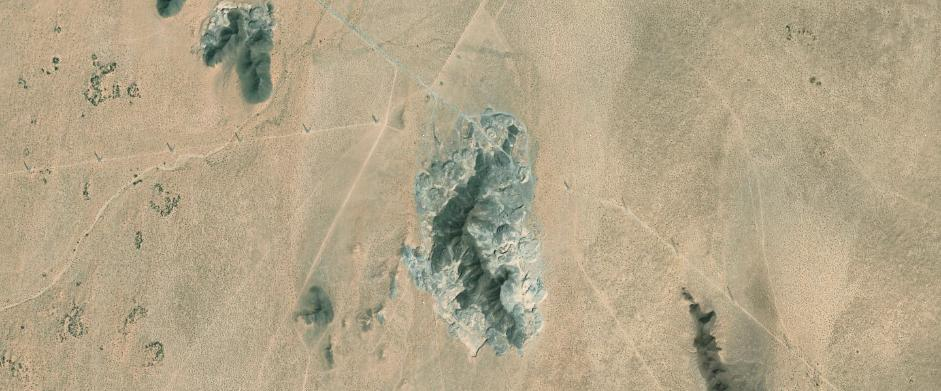
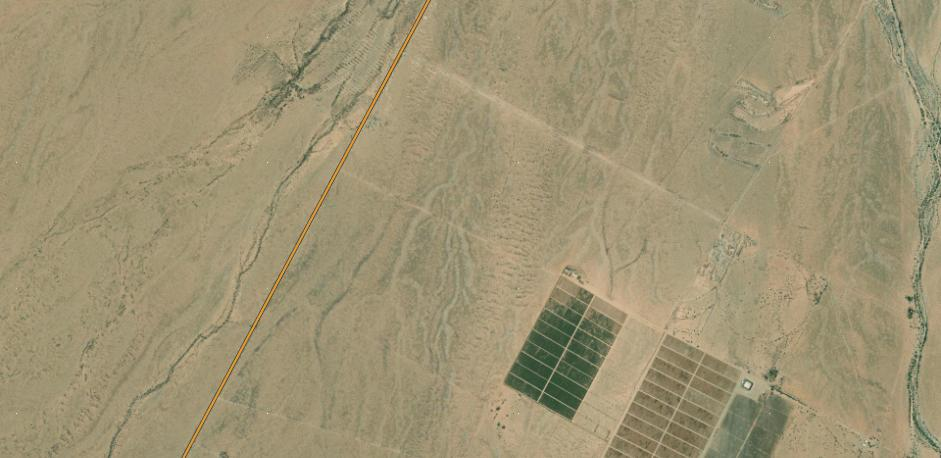
Punto 14 reubicado; 11 y 15 como bancos con acceso limitado (negro)

diff --git a/index.html b/index.html
@@ -30,11 +30,11 @@
   {"id": 8, "nombre": "Pozo Ejido Huivérachi", "tipo": "pozo", "lat": 31.700832, "lng": -113.13792, "enlace": "https://maps.app.goo.gl/V3wAgFmqL5dX7YGcA", "km": "Km 34+000 (1 km al norte)", "dist_eje": "1 km", "referencia": "Ejido Huivérachi", "uso": "Fuente ordinaria", "calidad": "", "notas": "A 1 km al norte del banco km 34. No incluido en el planteamiento.", "en_plan": false, "foto": "", "descripcion": ""},
   {"id": 9, "nombre": "Pozo El Chamizal", "tipo": "pozo", "lat": 31.697467, "lng": -113.075111, "enlace": "https://maps.app.goo.gl/WbbaDxpzR9PuZXJo6", "km": "Km 23 a 34", "dist_eje": "3.5 km / 1,500 m", "referencia": "Ejido Huivérachi", "uso": "Fuente ordinaria", "calidad": "", "notas": "", "en_plan": true, "foto": "", "descripcion": ""},
   {"id": 10, "nombre": "Pozo km 29+000", "tipo": "pozo", "lat": 31.734474, "lng": -113.061395, "enlace": "https://maps.app.goo.gl/BPL1TJZMcrK4nscG9", "km": "Km 29+000", "dist_eje": "500 m", "referencia": "—", "uso": "Sin asignar", "calidad": "", "notas": "No incluido en el planteamiento.", "en_plan": false, "foto": "", "descripcion": ""},
-  {"id": 11, "nombre": "Pozo km 4+000", "tipo": "pozo", "lat": 31.832236, "lng": -112.849263, "enlace": "https://maps.app.goo.gl/dG3jifU2ivjeodnj7", "km": "Km 4+000", "dist_eje": "—", "referencia": "Entrada sur de Sonoyta", "uso": "Sin asignar", "calidad": "", "notas": "No incluido en el planteamiento.", "en_plan": false, "foto": "", "descripcion": ""},
+  {"id": 11, "nombre": "Banco 11 (acceso limitado)", "tipo": "banco", "lat": 31.832236, "lng": -112.849263, "enlace": "https://maps.app.goo.gl/dG3jifU2ivjeodnj7", "km": "Km 4+000", "dist_eje": "—", "referencia": "Entrada sur de Sonoyta", "uso": "Acceso limitado", "calidad": "", "notas": "Banco de materiales con acceso limitado. Actualmente tritura VIRGO.", "en_plan": true, "foto": "", "descripcion": "", "acceso": "limitado"},
   {"id": 12, "nombre": "Pozo Ejido Los Pápagos (2.6 km NO de Sonoyta)", "tipo": "pozo", "lat": 31.885744, "lng": -112.889507, "enlace": "https://maps.app.goo.gl/hwHk3wshHEPUjNpz7", "km": "Fuera del corredor", "dist_eje": "—", "referencia": "Ejido Los Pápagos", "uso": "Sin asignar", "calidad": "", "notas": "No incluido en el planteamiento.", "en_plan": false, "foto": "", "descripcion": ""},
   {"id": 13, "nombre": "Pozo Ejido Los Pápagos (7 km NO de Sonoyta)", "tipo": "pozo", "lat": 31.904188, "lng": -112.912583, "enlace": "https://maps.app.goo.gl/dgopFYDA43zp3ykD7", "km": "Fuera del corredor", "dist_eje": "—", "referencia": "Ejido Los Pápagos", "uso": "Sin asignar", "calidad": "", "notas": "No incluido en el planteamiento.", "en_plan": false, "foto": "", "descripcion": ""},
-  {"id": 14, "nombre": "Pozo 14 (Arenitas – Agua Zarca)", "tipo": "pozo", "lat": 31.444017, "lng": -113.27695, "enlace": "https://www.google.com/maps?q=31.444017,-113.276950", "km": "Km 76+500 (acceso ≈17 km)", "dist_eje": "≈17 km por el acceso desde el km 76+500", "referencia": "Junto al banco Arenitas – Agua Zarca", "uso": "Por definir", "calidad": "", "notas": "Coordenadas 31°26'38.46\"N 113°16'37.02\"W. Nombre por confirmar.", "en_plan": true, "foto": "", "descripcion": ""},
-  {"id": 15, "nombre": "Banco de materiales Arenitas – Agua Zarca", "tipo": "banco", "lat": 31.4417911, "lng": -113.274919, "enlace": "https://www.google.com/maps?q=31.4417911,-113.2749190", "km": "Km 76+500", "dist_eje": "Acceso de 17.3 km desde el km 76+500", "referencia": "Arenitas – Agua Zarca", "uso": "Por definir (cobertura de tramo por confirmar)", "calidad": "", "notas": "Ubicación y datos proporcionados por Herme Damián. Cerro rocoso visible en imagen satelital.", "en_plan": true, "foto": "", "descripcion": ""}
+  {"id": 14, "nombre": "Pozo 14", "tipo": "pozo", "lat": 31.611028, "lng": -113.339167, "enlace": "https://www.google.com/maps?q=31.611028,-113.339167", "km": "Por confirmar", "dist_eje": "≈2 km al este del eje (línea recta)", "referencia": "Entre Agua Zarca y Los Norteños", "uso": "Por definir", "calidad": "", "notas": "Coordenadas 31°36'39.7\"N 113°20'21.0\"W. Nombre y cadenamiento por confirmar.", "en_plan": true, "foto": "", "descripcion": ""},
+  {"id": 15, "nombre": "Banco Arenitas – Agua Zarca (acceso limitado)", "tipo": "banco", "lat": 31.4417911, "lng": -113.274919, "enlace": "https://www.google.com/maps?q=31.4417911,-113.2749190", "km": "Km 76+500", "dist_eje": "Acceso de 17.3 km desde el km 76+500", "referencia": "Arenitas – Agua Zarca", "uso": "Acceso limitado (17.3 km desde el km 76+500)", "calidad": "", "notas": "Ubicación y datos proporcionados por Herme Damián. Acceso limitado.", "en_plan": true, "foto": "", "descripcion": "", "acceso": "limitado"}
 ]
 </script>
 
@@ -66,13 +66,13 @@
   .fichas{position:fixed;left:0;right:0;bottom:calc(12px + env(safe-area-inset-bottom));z-index:1000;display:flex;gap:6px;overflow-x:auto;padding:4px 12px;scrollbar-width:none}
   .fichas::-webkit-scrollbar{display:none}
   .ficha{flex-shrink:0;width:38px;height:38px;border-radius:50%;border:2px solid #fff;background:var(--pizarra);color:#fff;font-weight:600;font-size:13px;display:grid;place-items:center;box-shadow:0 2px 8px rgba(0,0,0,.25);cursor:pointer}
-  .ficha.pozo{background:var(--agua)} .ficha.banco{background:var(--piedra)}
+  .ficha.pozo{background:var(--agua)} .ficha.banco{background:var(--piedra)} .ficha.limitado{background:#111}
   .ficha.confoto{box-shadow:0 0 0 3px var(--salvia)}
   .ficha.activa{transform:scale(1.15);outline:2px solid var(--pizarra)}
 
   /* marcador */
   .marcador{width:32px;height:32px;border-radius:50% 50% 50% 0;transform:rotate(-45deg);background:var(--pizarra);border:2px solid #fff;box-shadow:0 2px 6px rgba(0,0,0,.35);display:grid;place-items:center;transition:transform .15s}
-  .marcador.pozo{background:var(--agua)} .marcador.banco{background:var(--piedra)}
+  .marcador.pozo{background:var(--agua)} .marcador.banco{background:var(--piedra)} .marcador.limitado{background:#111}
   .marcador.confoto{box-shadow:0 0 0 3px var(--salvia),0 2px 6px rgba(0,0,0,.35)}
   .marcador span{transform:rotate(45deg);color:#fff;font-size:12px;font-weight:700}
   .leaflet-marker-icon:hover .marcador{transform:rotate(-45deg) scale(1.12)}
@@ -93,7 +93,7 @@
   .tarjeta p.vacia{color:var(--gris);font-style:italic}
   .tarjeta .pie{display:flex;gap:6px;margin-top:12px;flex-wrap:wrap}
   .chip{display:inline-block;font-size:11px;padding:2px 8px;border-radius:10px;color:#fff;margin:2px 4px 2px 0}
-  .chip.pozo{background:var(--agua)} .chip.banco{background:var(--piedra)} .chip.fuera{background:var(--gris)}
+  .chip.pozo{background:var(--agua)} .chip.banco{background:var(--piedra)} .chip.fuera{background:var(--gris)} .chip.limitado{background:#111}
   .datos{display:grid;grid-template-columns:auto 1fr;gap:3px 10px;margin:6px 0 8px;font-size:12.5px}
   .datos dt{color:var(--gris)} .datos dd{margin:0;color:var(--tinta)} .datos a{color:var(--salvia)}
   .tarjeta label{display:block;font-size:12px;color:var(--gris);margin:8px 0 3px}
@@ -103,7 +103,7 @@
   .leyenda{position:fixed;right:12px;bottom:calc(64px + env(safe-area-inset-bottom));z-index:1000;background:var(--papel);border:1px solid var(--linea);border-radius:8px;padding:6px 10px;font-size:12px;color:var(--gris);display:flex;align-items:center;gap:6px;box-shadow:0 2px 8px rgba(0,0,0,.12)}
   .leyenda i{display:inline-block;width:22px;height:4px;border-radius:2px;background:#e0912f}
   .leyenda b{display:inline-block;width:10px;height:10px;border-radius:50%;margin-left:8px}
-  .leyenda b.agua{background:var(--agua)} .leyenda b.piedra{background:var(--piedra)}
+  .leyenda b.agua{background:var(--agua)} .leyenda b.piedra{background:var(--piedra)} .leyenda b.negro{background:#111}
   .panel{position:fixed;top:calc(64px + env(safe-area-inset-top));right:12px;width:min(380px,calc(100vw - 24px));max-height:calc(100vh - 160px);overflow-y:auto;z-index:1001;background:var(--papel);border:1px solid var(--linea);border-radius:12px;padding:16px 18px;box-shadow:0 8px 28px rgba(0,0,0,.25);font-size:13px;line-height:1.45}
   .panel h2{margin:0 24px 2px 0;font-size:16px;font-weight:600;color:var(--pizarra)} .panel h3{margin:12px 0 4px;font-size:13px;color:var(--pizarra)}
   .panel .sub{color:var(--gris);font-size:12px;margin:0 0 8px} .panel p{margin:6px 0} .panel ol{margin:4px 0 0 18px;padding:0}
@@ -154,7 +154,8 @@
     <tr><td>54+000</td><td>Ejido Nayarit · contiguo al eje</td><td>—</td><td><a href="#" data-ir="1">1</a></td></tr>
     <tr><td>34+000</td><td>Ejido Huivérachi · 0.1 km</td><td>En estudio de laboratorio; primeros análisis con calidad necesaria</td><td><a href="#" data-ir="2">2</a></td></tr>
     <tr><td>19+200</td><td>Ejido Chamizal · 0.1 km</td><td>—</td><td><a href="#" data-ir="3">3</a></td></tr>
-    <tr><td>76+500</td><td>Arenitas – Agua Zarca · acceso 17.3 km</td><td>—</td><td><a href="#" data-ir="15">15</a></td></tr>
+    <tr><td>76+500</td><td>Arenitas – Agua Zarca · acceso limitado (17.3 km)</td><td>—</td><td><a href="#" data-ir="15">15</a></td></tr>
+    <tr><td>4+000</td><td>Banco 11 · acceso limitado · tritura VIRGO</td><td>—</td><td><a href="#" data-ir="11">11</a></td></tr>
   </table>
   <h3>Inventario de pozos de agua</h3>
   <table>
@@ -165,7 +166,7 @@
     <tr><td>54+000</td><td>Los Norteños No. 2</td><td>~1 km</td><td>Alterna</td><td><a href="#" data-ir="6">6</a></td></tr>
     <tr><td>62+700</td><td>Los Corrales</td><td>400 m</td><td>Ordinaria</td><td>—</td></tr>
     <tr><td>76+500</td><td>Pozo km 76+500</td><td>1 km</td><td>Ordinaria</td><td><a href="#" data-ir="4">4</a></td></tr>
-    <tr><td>76+500</td><td>Pozo 14 (Arenitas)</td><td>≈17 km acceso</td><td>Por definir</td><td><a href="#" data-ir="14">14</a></td></tr>
+    <tr><td>Por conf.</td><td>Pozo 14 · entre Agua Zarca y Los Norteños</td><td>≈2 km</td><td>Por definir</td><td><a href="#" data-ir="14">14</a></td></tr>
 
   </table>
   <p class="sub">Uso: Ordinaria = desvío ≤ 1.5 km, operación diaria · Alterna = respaldo del sector · Reserva = fuera de la operación diaria.<br>(1) Cifras tal como aparecen en el planteamiento; falta precisar cuál es por camino y cuál en línea recta.</p>
@@ -183,7 +184,7 @@
   <ol><li>Disminución en distancia de acarreo.</li><li>Garantía en calidad de material.</li><li>Garantía en caudal y calidad del agua.</li><li>Capacidad de producción y continuidad.</li><li>Garantía en participación social.</li><li>Certeza legal.</li></ol>
   <p class="sub">Sitio pendiente de georreferenciar: pozo Los Corrales, km 62+700, 400 m del eje (zona Agua Zarca).</p>
 </div>
-<div class="leyenda" id="leyenda"><i></i>Fed. 8 <b class="agua"></b>Pozo <b class="piedra"></b>Banco<span id="leyAcarreo" hidden> · Acarreo: <span class="seg" style="background:#7a4b8f"></span>banco km 34 <span class="seg" style="background:#c2792a"></span>banco Nayarit</span></div>
+<div class="leyenda" id="leyenda"><i></i>Fed. 8 <b class="agua"></b>Pozo <b class="piedra"></b>Banco <b class="negro"></b>Acceso limitado<span id="leyAcarreo" hidden> · Acarreo: <span class="seg" style="background:#7a4b8f"></span>banco km 34 <span class="seg" style="background:#c2792a"></span>banco Nayarit</span></div>
 <div class="fichas" id="fichas"></div>
 <div class="aviso" id="aviso"></div>
 
@@ -244,7 +245,7 @@ let enSatelite = false;
 
 const esc = s=>String(s).replace(/[&<>"]/g,c=>({'&':'&amp;','<':'&lt;','>':'&gt;','"':'&quot;'}[c]));
 const urlFoto = p => !p.foto ? '' : (/^(data:|https?:\/\/)/.test(p.foto) ? p.foto : 'fotos/'+p.foto);
-const icono = p => L.divIcon({className:'',html:`<div class="marcador ${p.tipo||''} ${p.foto?'confoto':''}"><span>${p.id}</span></div>`,iconSize:[32,32],iconAnchor:[16,32],popupAnchor:[0,-30]});
+const icono = p => L.divIcon({className:'',html:`<div class="marcador ${p.tipo||''} ${p.acceso==='limitado'?'limitado':''} ${p.foto?'confoto':''}"><span>${p.id}</span></div>`,iconSize:[32,32],iconAnchor:[16,32],popupAnchor:[0,-30]});
 
 function vistaTarjeta(p){
   const f = urlFoto(p);
@@ -252,7 +253,7 @@ function vistaTarjeta(p){
     ${f?`<img class="foto" src="${f}" alt="">`:`<div class="sinfoto" data-accion="foto">Tocar para agregar foto</div>`}
     <div class="cuerpo">
       <h3>${esc(p.nombre)}</h3>
-      <div class="meta"><span class="chip ${p.tipo}">${p.tipo==='banco'?'Banco de materiales':'Pozo de agua'}</span>${p.en_plan?'':'<span class="chip fuera">No incluido en el planteamiento</span>'}</div>
+      <div class="meta"><span class="chip ${p.tipo}">${p.tipo==='banco'?'Banco de materiales':'Pozo de agua'}</span>${p.acceso==='limitado'?'<span class="chip limitado">Acceso limitado</span>':''}${p.en_plan?'':'<span class="chip fuera">No incluido en el planteamiento</span>'}</div>
       <dl class="datos">
         <dt>Cadenamiento</dt><dd>${esc(p.km)}</dd>
         <dt>Distancia al eje</dt><dd>${esc(p.dist_eje)}</dd>
@@ -378,7 +379,7 @@ function pintarFichas(){
   puntos.forEach(p=>{
     if(!map.hasLayer(marcadores[p.id])) return;
     const d = document.createElement('div');
-    d.className = `ficha ${p.tipo||''} ${p.foto?'confoto':''} ${activo===p.id?'activa':''}`;
+    d.className = `ficha ${p.tipo||''} ${p.acceso==='limitado'?'limitado':''} ${p.foto?'confoto':''} ${activo===p.id?'activa':''}`;
     d.textContent = p.id; d.title = p.nombre;
     d.onclick = ()=>{ map.flyTo([p.lat,p.lng],Math.max(map.getZoom(),15),{duration:.6}); setTimeout(()=>marcadores[p.id].openPopup(),650); };
     c.appendChild(d);

diff --git a/sw.js b/sw.js
@@ -1,5 +1,5 @@
 // Service worker: la app funciona sin conexión y guarda los mosaicos del mapa que ya se hayan visto.
-const VERSION = 'mapeo-v11';
+const VERSION = 'mapeo-v12';
 const SHELL = ['./', 'index.html', 'manifest.webmanifest', 'icon-192.png', 'icon-512.png', 'https://unpkg.com/leaflet@1.9.4/dist/leaflet.js', 'https://unpkg.com/leaflet@1.9.4/dist/leaflet.css', 'https://www.gstatic.com/firebasejs/10.14.1/firebase-app-compat.js', 'https://www.gstatic.com/firebasejs/10.14.1/firebase-auth-compat.js', 'https://www.gstatic.com/firebasejs/10.14.1/firebase-firestore-compat.js'];
 const TILES = 'mapeo-tiles';
 const MAX_TILES = 4000;
